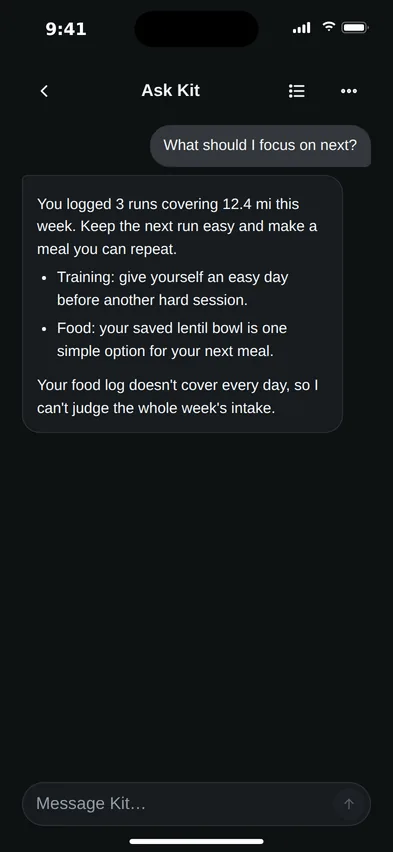
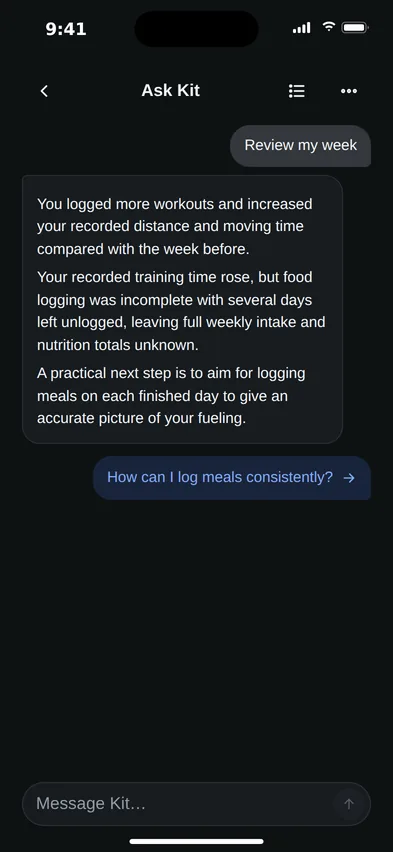
Use the tested fictional weekly Kit answer verbatim on Home

Changed region(s): [[0.0916, 0.1221, 0.9466, 0.6103]]

diff --git a/dev/screenshots/take.js b/dev/screenshots/take.js
@@ -11,6 +11,7 @@ const SCREENSHOT_CLOCK = require('./fixture-time.json');
 const OWNER_LOGIN = process.env.KINETTA_SCREENSHOT_FIXTURE === '1' ? 'nia' : 'alex';
 // name, address, and optionally a card title to scroll to, or something to do first
 const SHOTS = require('./scenes.json');
+const KIT_COACH_EXAMPLE = require('./kit-coach-answer.json');
 // ONLY=lift,liftex takes just those (new shots, without retaking every other picture)
 const ONLY = process.env.ONLY ? process.env.ONLY.split(',') : null;
 const MAP_SHOTS = new Set(['home-feed','activity-detail','feed','activity','activity-splits','route']);
@@ -365,13 +366,8 @@ async function closeCaptureContext(context) {
           const visit_id = url.searchParams.get('visit_id');
           return route.fulfill({json: {generation: '00000000-0000-4000-8000-000000001049', visit_id, before: null, ready: true,
             messages: [{id: 1, client_id: '1049-progress-insight', generation: '00000000-0000-4000-8000-000000001049', visit_id,
-              question: 'What should I focus on next?', context: {screen: 'progress'}, state: 'answered', error: null,
-              answer: {interpretation: "Keep the next run easy and make a meal you can repeat.",
-                answer_blocks: [
-                  {kind: 'paragraph', text: 'You logged 3 runs covering 12.4 mi this week. Keep the next run easy and make a meal you can repeat.'},
-                  {kind: 'list', items: ['Training: give yourself an easy day before another hard session.', 'Food: your saved lentil bowl is one simple option for your next meal.']},
-                  {kind: 'paragraph', text: "Your food log doesn't cover every day, so I can't judge the whole week's intake."}
-                ], facts: [], actions: [], follow_ups: []}, created: '2026-11-13T14:00:00Z'}]}});
+              question: KIT_COACH_EXAMPLE.question, context: {screen: 'progress'}, state: 'answered', error: null,
+              answer: KIT_COACH_EXAMPLE.answer, created: '2026-11-13T14:00:00Z'}]}});
         }
         if (request.method() === 'POST' && url.pathname.endsWith('/end')) return route.fulfill({json: {ok: true}});
         return route.fulfill({status: 404, json: {detail: 'Unneeded screenshot fixture request.'}});
@@ -602,8 +598,10 @@ async function closeCaptureContext(context) {
         await page.getByText('Vegetables and rice', {exact: true}).waitFor({state: 'visible'});
       }
       if (kitInsightFixture) {
-        await page.locator('#kit-messages .kit-answer').filter({hasText: 'You logged 3 runs'}).waitFor({state: 'visible'});
-        if (await page.locator('.kit-answer-blocks p').count() !== 2 || await page.locator('.kit-answer-blocks li').count() !== 2) throw Error('Kit example must use the real paragraph/list renderer.');
+        await page.locator('#kit-messages .kit-answer').filter({hasText: KIT_COACH_EXAMPLE.answer.answer_blocks[0].text}).waitFor({state: 'visible'});
+        const actual = await page.locator('.kit-answer-blocks > p,.kit-answer-blocks > ul').allInnerTexts();
+        const expected = KIT_COACH_EXAMPLE.answer.answer_blocks.map(block => block.kind === 'paragraph' ? block.text : block.items.join('\n'));
+        if (JSON.stringify(actual) !== JSON.stringify(expected)) throw Error('The tested Kit answer must render verbatim.');
         if ((await page.locator('#kit-status').innerText()).trim()) throw Error('Kit insight screenshot should not show a stale-chat warning.');
       }
       if(name==='activity'||name==='activity-detail'){

diff --git a/site/index.html b/site/index.html
@@ -71,8 +71,8 @@
 <figure class="home-kit-coach-visual">
 <div class="phone-frame" data-app-capture="kit-coach-answer"><picture>
 <source media="(prefers-color-scheme: dark)" srcset="assets/shots/dark-kit-insight-progress-1x.webp 1x, assets/shots/dark-kit-insight-progress.webp 2x">
-<img src="assets/shots/light-kit-insight-progress.webp" srcset="assets/shots/light-kit-insight-progress-1x.webp 1x, assets/shots/light-kit-insight-progress.webp 2x" width="786" height="1704" loading="lazy" alt="Ask Kit in the current app: a fictional answer about easy runs and meals, with plain paragraphs and a short list.">
-</picture></div><figcaption>Current app screen · fictional example answer</figcaption>
+<img src="assets/shots/light-kit-insight-progress.webp" srcset="assets/shots/light-kit-insight-progress-1x.webp 1x, assets/shots/light-kit-insight-progress.webp 2x" width="786" height="1704" loading="lazy" alt="Ask Kit in the current app: a tested weekly review with plain paragraphs about recorded training and incomplete food logs, using fictional data.">
+</picture></div><figcaption>Tested Kit answer · fictional data</figcaption>
 </figure></div></section>
 <section class="home-badges" aria-labelledby="home-badges-title"><div class="wrap home-feature-split"><div class="home-feature-copy"><span class="eyebrow">Achievements</span><h2 id="home-badges-title">Badges you earn step by step.</h2><p>Explore achievement tracks for running, riding, walking/hiking, swimming and lifting. See what you've earned and what's next.</p></div><div class="home-feature-phone home-badges-visuals"><figure class="home-badge-preview home-badge-preview--profile"><div class="phone-frame"><picture><source srcset="assets/shots/1319-profile-dark.webp" media="(prefers-color-scheme: dark)"><img src="assets/shots/1319-profile-light.webp" alt="Fictional Profile screen showing the entry to Achievements." width="786" height="1704" loading="lazy"></picture></div><figcaption>Open Achievements from your profile</figcaption></figure><figure class="home-badge-preview home-badge-preview--achievements"><div class="phone-frame"><picture><source srcset="assets/shots/dark-achievements-1x.webp 1x, assets/shots/dark-achievements.webp 2x" media="(prefers-color-scheme: dark)"><img src="assets/shots/light-achievements.webp" srcset="assets/shots/light-achievements-1x.webp 1x, assets/shots/light-achievements.webp 2x" alt="Fictional Achievements screen showing earned levels and the next distance goal." width="786" height="1704" loading="lazy"></picture></div><figcaption>Run, ride, walk/hike, swim and lift.</figcaption></figure></div></div></section>
 

diff --git a/site/templates/index.html b/site/templates/index.html
@@ -71,7 +71,7 @@
 <figure class="home-kit-coach-visual">
 <div class="phone-frame" data-app-capture="kit-coach-answer"><picture>
 <source media="(prefers-color-scheme: dark)" srcset="assets/shots/dark-kit-insight-progress-1x.webp 1x, assets/shots/dark-kit-insight-progress.webp 2x">
-<img src="assets/shots/light-kit-insight-progress.webp" srcset="assets/shots/light-kit-insight-progress-1x.webp 1x, assets/shots/light-kit-insight-progress.webp 2x" width="786" height="1704" loading="lazy" alt="Ask Kit in the current app: a fictional answer about easy runs and meals, with plain paragraphs and a short list.">
+<img src="assets/shots/light-kit-insight-progress.webp" srcset="assets/shots/light-kit-insight-progress-1x.webp 1x, assets/shots/light-kit-insight-progress.webp 2x" width="786" height="1704" loading="lazy" alt="Ask Kit in the current app: a tested weekly review with plain paragraphs about recorded training and incomplete food logs, using fictional data.">
 </picture></div><figcaption>{{copy:home-kit-example-caption}}</figcaption>
 </figure></div></section>
 <section class="home-badges" aria-labelledby="home-badges-title"><div class="wrap home-feature-split"><div class="home-feature-copy"><span class="eyebrow">{{copy:home-badges-kicker}}</span><h2 id="home-badges-title">{{copy:home-badges-title}}</h2><p>{{copy:home-badges-description}}</p></div><div class="home-feature-phone home-badges-visuals"><figure class="home-badge-preview home-badge-preview--profile"><div class="phone-frame"><picture><source srcset="assets/shots/1319-profile-dark.webp" media="(prefers-color-scheme: dark)"><img src="assets/shots/1319-profile-light.webp" alt="Fictional Profile screen showing the entry to Achievements." width="786" height="1704" loading="lazy"></picture></div><figcaption>Open Achievements from your profile</figcaption></figure><figure class="home-badge-preview home-badge-preview--achievements"><div class="phone-frame"><picture><source srcset="assets/shots/dark-achievements-1x.webp 1x, assets/shots/dark-achievements.webp 2x" media="(prefers-color-scheme: dark)"><img src="assets/shots/light-achievements.webp" srcset="assets/shots/light-achievements-1x.webp 1x, assets/shots/light-achievements.webp 2x" alt="Fictional Achievements screen showing earned levels and the next distance goal." width="786" height="1704" loading="lazy"></picture></div><figcaption>Run, ride, walk/hike, swim and lift.</figcaption></figure></div></div></section>

diff --git a/dev/tests/test_website_content.py b/dev/tests/test_website_content.py
@@ -34,7 +34,7 @@ class CopyTests(unittest.TestCase):
   for text in ["Meet Kit, the coach that knows your training and your food.",
                "Any change it suggests waits for your OK.", "Review my week",
                "What should I focus on next?", "Suggest a meal from my saved foods.",
-               "For adults 18+. Kit is not medical advice.", "Current app screen · fictional example answer"]:
+               "For adults 18+. Kit is not medical advice.", "Tested Kit answer · fictional data"]:
    self.assertIn(text,home)
   self.assertIn('data-app-capture="kit-coach-answer"',home)
   for theme in ['light','dark']:

diff --git a/dev/screenshots/README.md b/dev/screenshots/README.md
@@ -6,7 +6,7 @@ The website Challenges, feed and profile screenshots use six small Gemini-genera
 
 The #1319 PR1 review captures are `site/assets/shots/1319-*` (working map, confirmed Kit meal and Profile) and `site/assets/tour/profile-achievements-*`. Activity detail and confirmed meal are captured as full 393×852 viewports (786×1704 raw PNGs); the confirmed-meal app shell is 540 CSS px high so its sentence, result and suggestion sit together. Published phone screens retain the full 393×852 viewport. The compact confirmed-meal control crop remains a compact card and is not framed or described as a phone. The Profile capture stays at 393×852. Challenge entry/detail captures are also full 393×852 app viewports. They use fictional records and can be reused by the follow-up website layout PR.
 
-Start an isolated disposable Compose project with `compose.standin.yml`, load the fixtures, then run `take.js <png-directory> <base-url>` and `to_webp.py <png-directory> site/assets/shots`. Set the operator-approved map variables explicitly: the capture script blocks the public OSM tile endpoint. The website workflow reads only the published public `/api/map-config` through `map_env.py`, with no account or private runtime access. For localhost captures, its range-request relay uses the published app origin and adapts response CORS to localhost; archive bytes and rendering stay unchanged. No production CORS setting is changed. A visible map-load failure stops capture/publication. The Food route’s three-food chat card is prepared by `food_chat_fixture.py`; Home’s two-food review frame is captured from the app using `home_food_review_fixture.py` with fictional 55 kcal stand-in values; food estimates, product lookup and prepared Kit reviews use stand-ins, with no live AI or food-provider request. The `kit-insight-progress` scene now captures the current Ask Kit paragraph/list renderer, using a checked-response stand-in and disabled saved-history capability. Its whole light/dark captures supply Meet Kit; it does not show charts or demonstrate generated answer quality. The screenshots show actual implemented browser controls and fictional records; they do not demonstrate model accuracy.
+Start an isolated disposable Compose project with `compose.standin.yml`, load the fixtures, then run `take.js <png-directory> <base-url>` and `to_webp.py <png-directory> site/assets/shots`. Set the operator-approved map variables explicitly: the capture script blocks the public OSM tile endpoint. The website workflow reads only the published public `/api/map-config` through `map_env.py`, with no account or private runtime access. For localhost captures, its range-request relay uses the published app origin and adapts response CORS to localhost; archive bytes and rendering stay unchanged. No production CORS setting is changed. A visible map-load failure stops capture/publication. The Food route’s three-food chat card is prepared by `food_chat_fixture.py`; Home’s two-food review frame is captured from the app using `home_food_review_fixture.py` with fictional 55 kcal stand-in values; food estimates, product lookup and prepared Kit reviews use stand-ins, with no live AI or food-provider request. The `kit-insight-progress` scene now captures the current Ask Kit paragraph/list renderer, using the verbatim passed `weekly-steady-prior` candidate in `kit-coach-answer.json` and disabled saved-history capability. Its whole light/dark captures supply Meet Kit; it does not show charts. The selected answer came from the tested candidate on fictional data; its text is not rewritten for marketing. The screenshots show actual implemented browser controls and fictional records; they do not demonstrate model accuracy.
 
 Browser-captured website phone PNGs are whole 393×852 viewports at 2× (786×1704); the challenge tour also uses complete screens. Homepage Activity detail, Me/Profile and Achievements shots instead come from the fictional Store fixture in the iOS Simulator, in light and dark. The iPhone 16 capture is resized to 786×1704 for 2× WebP, then downsampled to 393×852 for 1×. `manifest.json` records each Simulator device, runtime, theme, fixture and source revision so the Apple emoji rendering can be traced. The compact confirmed-meal card remains a non-phone crop; open pages still refresh each srcset candidate while preserving its density descriptor.
 

diff --git a/site/content/index.md b/site/content/index.md
@@ -75,7 +75,7 @@ Suggest a meal from my saved foods.
 
 ## home-kit-example-caption
 
-Current app screen · fictional example answer
+Tested Kit answer · fictional data
 
 ## home-kit-small-print
 
